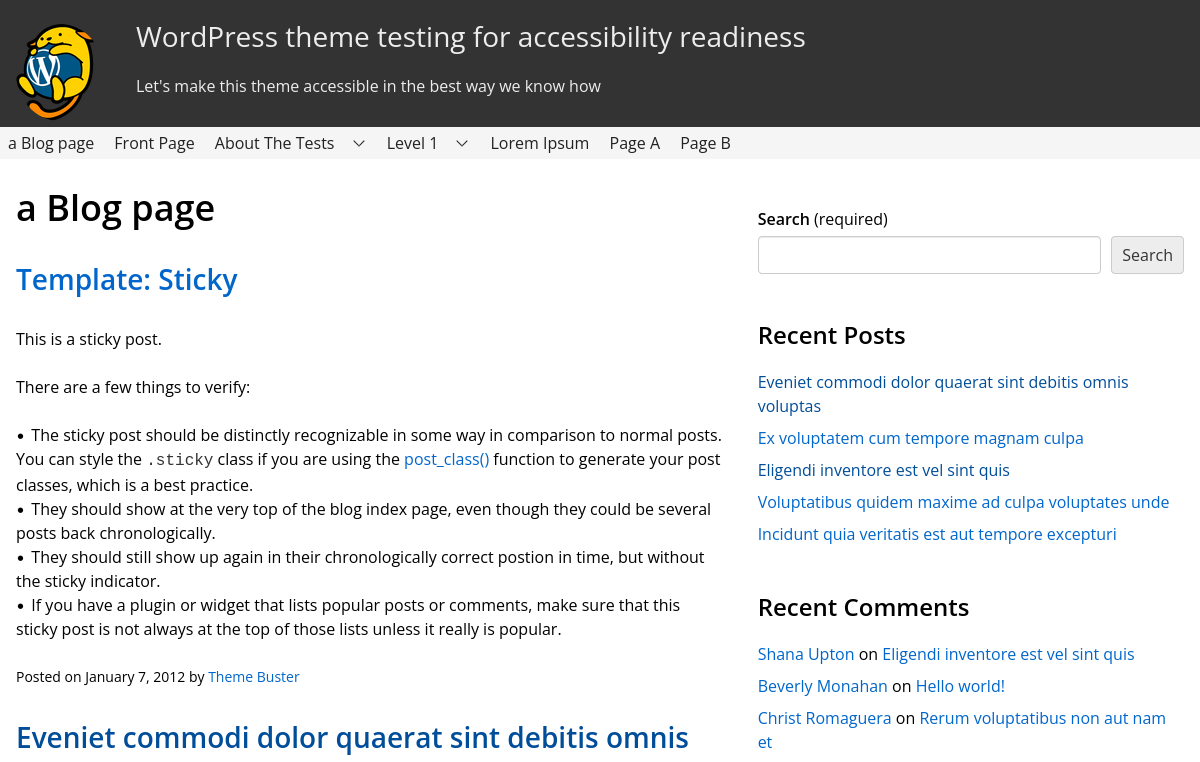
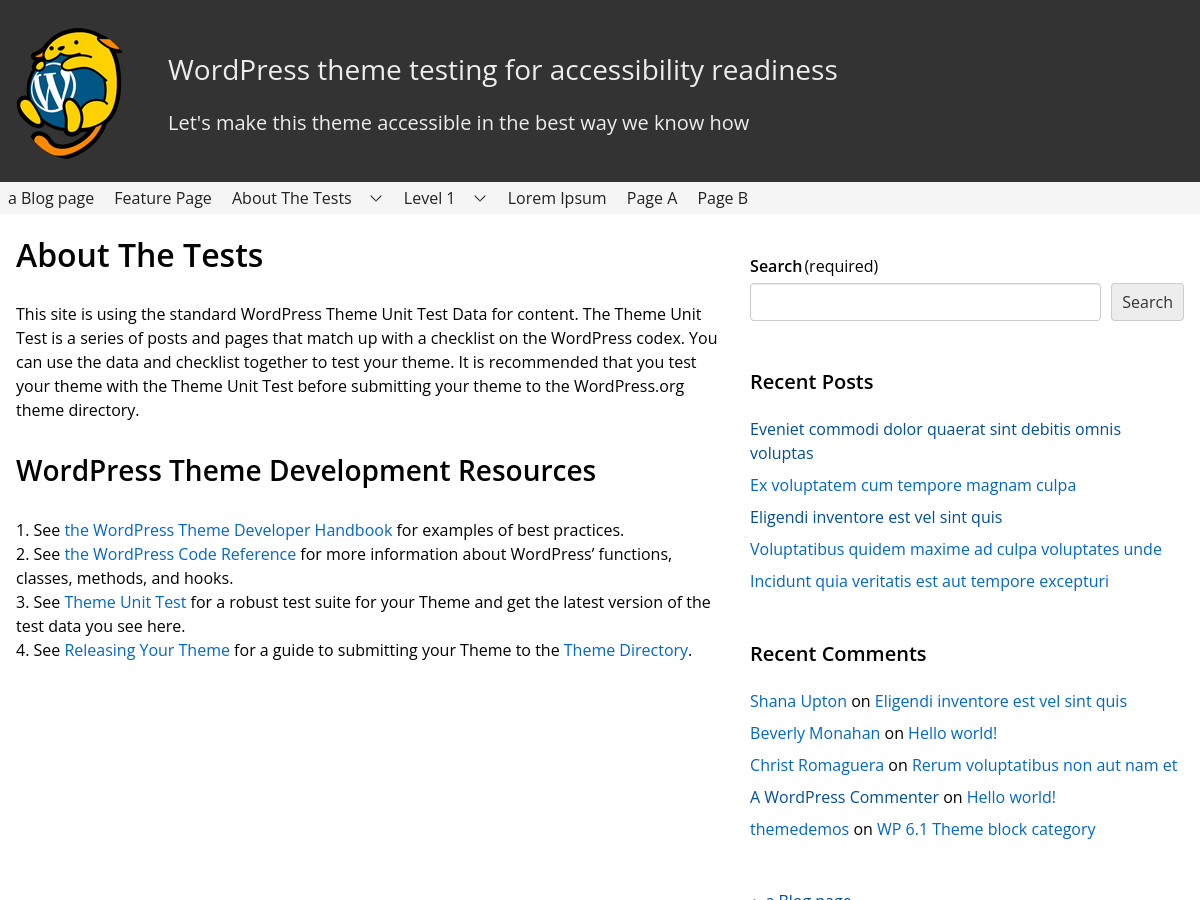
correct size for screenshot

diff --git a/style.css b/style.css
@@ -8,7 +8,7 @@ Version: 2.0.0
 License: GNU General Public License v2 or later
 License URI: https://www.gnu.org/licenses/gpl-2.0.html
 Text Domain: simple-grey
-Tags: one-column, two-columns, right-sidebar, custom-header, custom-menu, threaded-comments, editor-style, featured-images, post-formats, accessibility-ready, rtl-language-support, theme-options
+Tags: one-column, two-columns, right-sidebar, custom-header, custom-menu, threaded-comments, editor-style, featured-images, post-formats, accessibility-ready, rtl-language-support, theme-options, translation-ready
 Tested up to: 7.0
 Requires PHP: 7.2
 */
